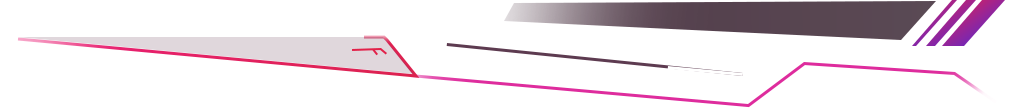
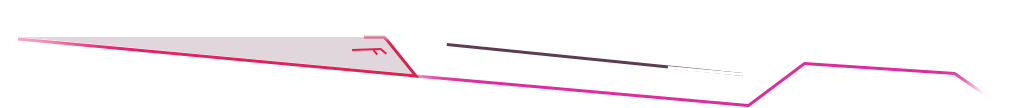
refactor：gif

Changed region(s): [[0.4848, 0.0, 1.0, 0.4444]]

diff --git a/src/views/statistic/Map.vue b/src/views/statistic/Map.vue
@@ -81,7 +81,6 @@ export default {
         yAxis: {
           show: false
         },
-
         visualMap: {
           type: "piecewise",
           min: 0,
@@ -121,7 +120,21 @@ export default {
               show: true,
               color: '#fff'
             }
-          }
+          },
+          regions: [
+            {
+              name: "南海诸岛",
+              value: 0,
+              itemStyle: {
+                normal: {
+                  opacity: 0,
+                  label: {
+                    show: false
+                  }
+                }
+              }
+            }
+          ]
         },
         // 开始叠加
         {
@@ -140,6 +153,20 @@ export default {
               areaColor: 'rgba(132, 45, 120, 1)' // 鼠标移入高亮显颜色
             }
           },
+          regions: [
+            {
+              name: "南海诸岛",
+              value: 0,
+              itemStyle: {
+                normal: {
+                  opacity: 0,
+                  label: {
+                    show: false
+                  }
+                }
+              }
+            }
+          ]
         },{
           map: 'china',
           zoom: 1.05,
@@ -155,7 +182,21 @@ export default {
             emphasis: {
               areaColor: 'rgba(132, 45, 120, 1)' // 鼠标移入高亮显颜色
             }
-          }
+          },
+          regions: [
+            {
+              name: "南海诸岛",
+              value: 0,
+              itemStyle: {
+                normal: {
+                  opacity: 0,
+                  label: {
+                    show: false
+                  }
+                }
+              }
+            }
+          ]
         },{
           map: 'china',
           zoom: 1.05,
@@ -171,7 +212,21 @@ export default {
             emphasis: {
               areaColor: 'rgba(132, 45, 120, 1)' // 鼠标移入高亮显颜色
             }
-          }
+          },
+          regions: [
+            {
+              name: "南海诸岛",
+              value: 0,
+              itemStyle: {
+                normal: {
+                  opacity: 0,
+                  label: {
+                    show: false
+                  }
+                }
+              }
+            }
+          ]
         },{
           map: 'china',
           zoom: 1.05,
@@ -187,7 +242,21 @@ export default {
             emphasis: {
               areaColor: 'rgba(132, 45, 120, 1)' // 鼠标移入高亮显颜色
             }
-          }
+          },
+          regions: [
+            {
+              name: "南海诸岛",
+              value: 0,
+              itemStyle: {
+                normal: {
+                  opacity: 0,
+                  label: {
+                    show: false
+                  }
+                }
+              }
+            }
+          ]
         },{
           map: 'china',
           zoom: 1.05,
@@ -203,7 +272,21 @@ export default {
             emphasis: {
               areaColor: 'rgba(132, 45, 120, 1)' // 鼠标移入高亮显颜色
             }
-          }
+          },
+          regions: [
+            {
+              name: "南海诸岛",
+              value: 0,
+              itemStyle: {
+                normal: {
+                  opacity: 0,
+                  label: {
+                    show: false
+                  }
+                }
+              }
+            }
+          ]
         },{
           map: 'china',
           zoom: 1.05,
@@ -214,12 +297,29 @@ export default {
           itemStyle: {
             normal: {
               borderColor: 'rgba(172, 90, 155, 0)',
-              areaColor: 'rgba(132, 45, 120, 1)'
+              areaColor: 'rgba(132, 45, 120, 1)',
+              shadowColor: 'rgba(0, 0, 0, 0.3)',
+              shadowBlur: 6,
+              shadowOffsetY: 6
             },
             emphasis: {
               areaColor: 'rgba(132, 45, 120, 1)' // 鼠标移入高亮显颜色
             }
-          }
+          },
+          regions: [
+            {
+              name: "南海诸岛",
+              value: 0,
+              itemStyle: {
+                normal: {
+                  opacity: 0,
+                  label: {
+                    show: false
+                  }
+                }
+              }
+            }
+          ]
         }],
         series: [
         // {
@@ -236,13 +336,13 @@ export default {
     },
     setFontOption() {
       this.chart.setOption({
-        geo: {
+        geo: [{
           itemStyle: {
             normal: {
               borderWidth: setfontSize(1)
             }
           }
-        }
+        }]
       });
     }
   }

diff --git a/src/views/statistic/index.vue b/src/views/statistic/index.vue
@@ -2,7 +2,10 @@
   <div class="g-statistic">
     <!-- title -->
     <div class="header-box">
-      <img src="~@/assets/images/statistic/title.png">
+      <img class="header-box__title" src="~@/assets/images/statistic/title.png">
+      <img class="header-box__left" src="~@/assets/images/statistic/bg_title_left.webp">
+      <img class="header-box__right" src="~@/assets/images/statistic/bg_title_right.webp">
+      <img class="header-box__block-left" src="~@/assets/images/statistic/block_top_left.webp">
     </div>
 
     <!-- left -->
@@ -20,7 +23,7 @@
         </div>
       </div>
       <div class="ly-left-bottom ly-border">
-        <Title :show-after="true" after-text="TOP8">车辆类型<span>Vehicle type</span></Title>
+        <Title :show-after="true" after-text="TOP5">车辆类型<span>Vehicle type</span></Title>
         <div class="content-box ly-border">
           <VehicleType ref="VehicleTypeRef" />
         </div>
@@ -73,6 +76,14 @@
     <img class="bg-img bg-top-right" src="~@/assets/images/statistic/bg_top_right.png" />
     <img class="bg-img bg-map" src="~@/assets/images/statistic/bg.png" />
     <div class="bg-img bg-circle" />
+
+    <!-- gif -->
+    <img class="bg-img angle-bottom-left" src="~@/assets/images/statistic/angle_bottom_left.webp" />
+    <img class="bg-img angle-bottom-right" src="~@/assets/images/statistic/angle_bottom_right.webp" />
+    <img class="bg-img angle-top-left" src="~@/assets/images/statistic/angle_top_left.webp" />
+    <img class="bg-img angle-top-right" src="~@/assets/images/statistic/angle_top_right.webp" />
+    <img class="bg-img block-bottom-left" src="~@/assets/images/statistic/block_bottom_left.webp" />
+    <img class="bg-img block-bottom-right" src="~@/assets/images/statistic/block_bottom_right.webp" />
   </div>
 </template>
 
@@ -362,6 +373,42 @@ export default {
       background: url('~@/assets/images/statistic/bg_circle.png') no-repeat center center;
       background-size: cover;
     }
+    &.angle-bottom-left{
+      width: 1.95rem;
+      height: 1.95rem;
+      right: 5rem;
+      bottom: 1.65rem;
+    }
+    &.angle-bottom-right{
+      width: 2.4rem;
+      height: 1.85rem;
+      left: 3.8rem;
+      bottom: 1.7rem;
+    }
+    &.angle-top-left{
+      width: 2rem;
+      height: 2rem;
+      left: 2rem;
+      top: 1.5rem;
+    }
+    &.angle-top-right{
+      width: 1.825rem;
+      height: 2rem;
+      right: 2.5rem;
+      top: 1.5rem;
+    }
+    &.block-bottom-left{
+      width: 2.275rem;
+      height: 0.8rem;
+      bottom: 0.6rem;
+      left: 15.6rem;
+    }
+    &.block-bottom-right{
+      width: 2.2rem;
+      height: 0.775rem;
+      bottom: 0.6rem;
+      right: 16.6rem;
+    }
   }
 
   // style
@@ -378,7 +425,7 @@ export default {
     height: 3.4rem;
     background: url('~@/assets/images/statistic/bg_title.png') no-repeat;
     background-size: 100% 100%;
-    >img{
+    >.header-box__title{
       width: 11.35rem;
       height: 1.625rem;
       position: absolute;
@@ -403,6 +450,27 @@ export default {
       right: -23.2rem;
       background: url('~@/assets/images/statistic/bg_title_right.png') no-repeat;
       background-size: 100% 100%;
+    }
+    >.header-box__left{
+      width: 12.9rem;
+      height: 1.6rem;
+      position: absolute;
+      top: 0;
+      left: -10.8rem;
+    }
+    >.header-box__right{
+      width: 14.525rem;
+      height: 1.6rem;
+      position: absolute;
+      top: 0;
+      right: -10rem;
+    }
+    >.header-box__block-left{
+      width: 2.4rem;
+      height: 0.875rem;
+      position: absolute;
+      top: 2.5rem;
+      left: 2.3rem;
     }
   }
 }

diff --git a/src/views/statistic/RankingCard.vue b/src/views/statistic/RankingCard.vue
@@ -16,9 +16,7 @@
           <div v-for="(item, index) in vehicleList" :key="index" class="content-item ly-flex ly-flex-pack-justify">
             <p class="text g-single-row">
               {{ item.licenseNumber }}
-              <span v-if="item.vehicleTypeName && item.vehicleTypeName !== ''" class="small-card type1">{{ item.vehicleTypeName }}</span>
-              <!-- <span class="small-card type2">超速</span>
-              <span class="small-card type2">车辆碰撞</span> -->
+              <span v-if="item.vehicleTypeName && item.vehicleTypeName !== ''" class="small-card type2">{{ item.vehicleTypeName }}</span>
             </p>
             <count-to class="count" :end-val="item.number" :decimal-places="0" />
           </div>

diff --git a/src/views/statistic/components/title.vue b/src/views/statistic/components/title.vue
@@ -4,6 +4,7 @@
     <div class="text">
       <slot />
     </div>
+    <img class="title_line" src="~@/assets/images/statistic/title_line.gif" />
   </div>
 </template>
 
@@ -56,6 +57,15 @@ export default {
       line-height: 22px;
       margin-left: 0.6rem;
     }
+  }
+
+  .title_line{
+    position: absolute;
+    bottom: -0.35rem;
+    left: -0.5rem;
+    width: 8.75rem;
+    height: 0.75rem;
+    opacity: 0.7;
   }
 }
 </style>
